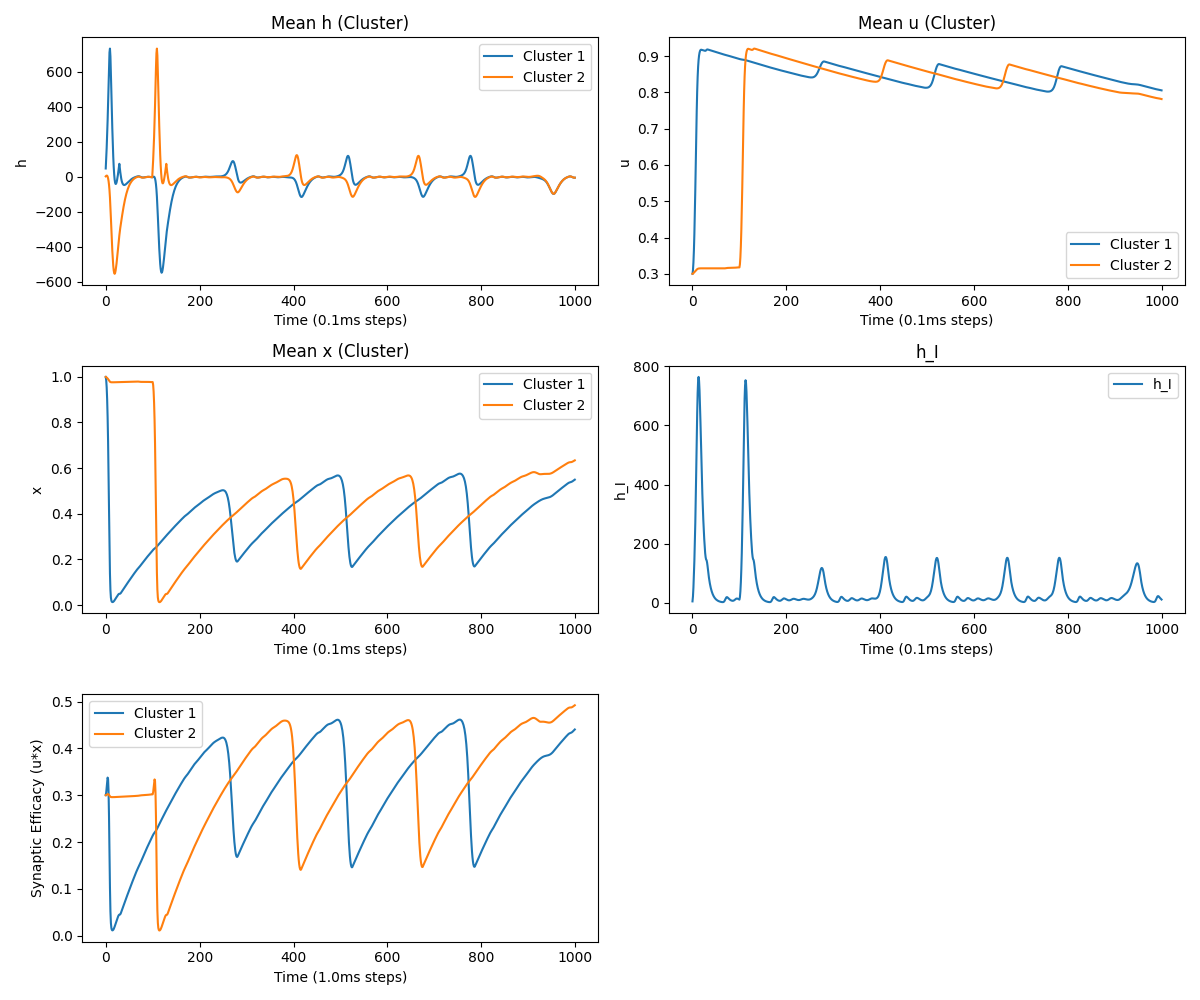
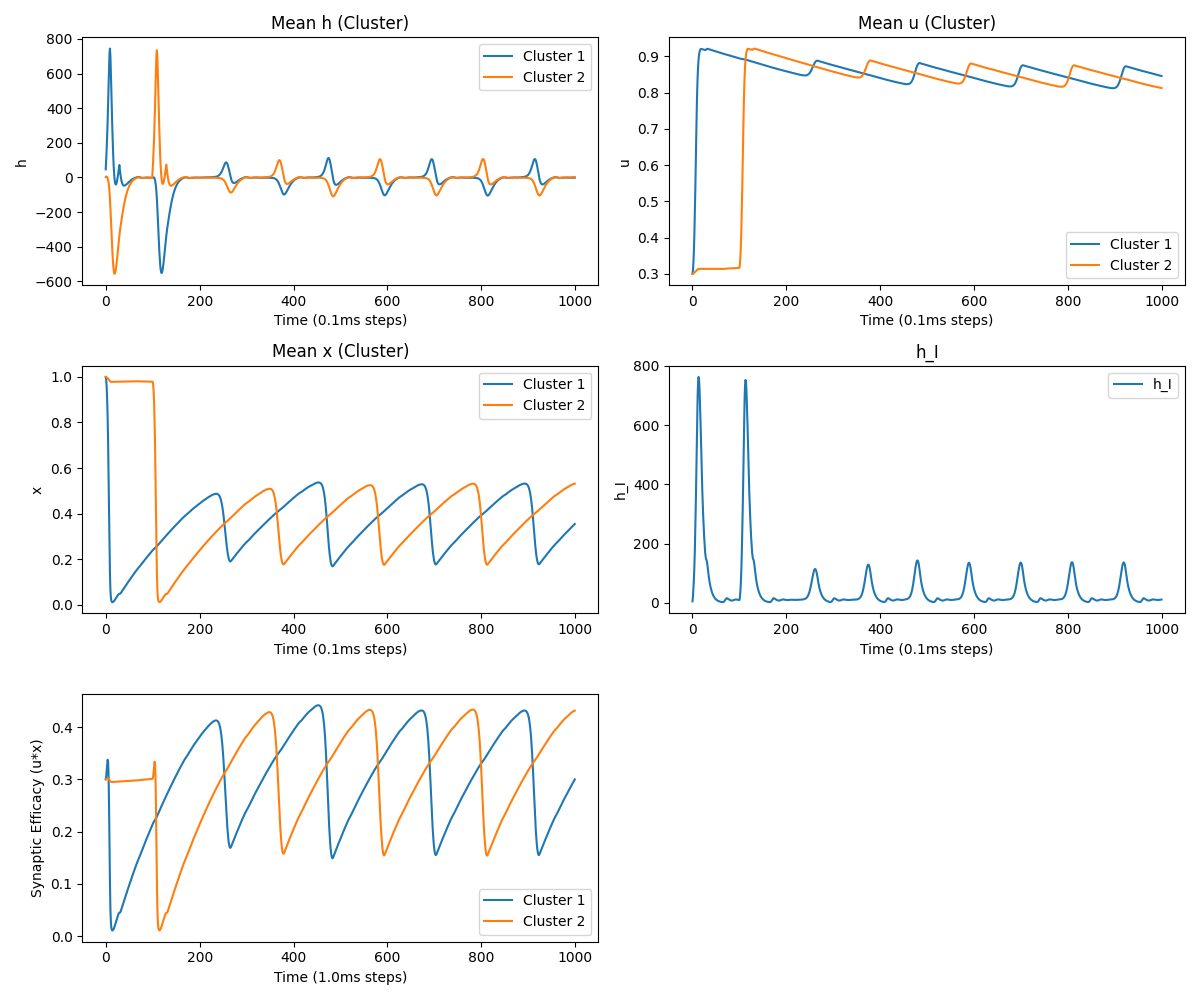
Better P=2 results

diff --git a/code/004_extended/000_paper_test.py b/code/004_extended/000_paper_test.py
@@ -17,9 +17,12 @@ def simulate_paper(input_length=5, N=5000, P=16, f=0.05, dt=1e-4):
 def simulate_paper_extended(input_length=5, N_a=5000, N_b=5000, P=16, f=0.05,
                             dt=1e-4, duration=2.5, input_strength=365.0, **kwargs):
     # Initialize model with paper parameters
+    defaults = {
+        'J_EE': 8.0, 'U': 0.3, 'tau': 8e-3, 'tau_f': 1.5, 'tau_d': 0.3,
+        'J_IE': 1.75, 'I_b': 8.0
+    }
     model = ExtendedSTPWrapper(
-        N_a=N_a, N_b=N_b, P=P, f=f, dt=dt,
-        J_EE=8.0, U=0.3, tau=8e-3, tau_f=1.5, tau_d=0.3, J_IE=1.75, I_b = 8.0, **kwargs
+        N_a=N_a, N_b=N_b, P=P, f=f, dt=dt, **{**defaults, **kwargs}
     ).to(device)
     simulate_paper_with_model(model, input_strength, duration, input_length)
 
@@ -106,5 +109,5 @@ if __name__ == "__main__":
     # 001_parity model 04/27: Clusters firing in sync, not correct
     # simulate_paper_extended(P=2, f=0.4, input_length=2, N_a=100, N_b=200, dt=1e-3, duration=1.0)
     # Testing better values: correct firing
-    simulate_paper_extended(P=16, f=0.05, input_length=2, N_a=1000, N_b=200, dt=1e-3, duration=1.0)
+    simulate_paper_extended(P=2, f=0.05, input_length=2, N_a=1000, N_b=200, dt=1e-3, duration=1.0)
     # train_xor()
